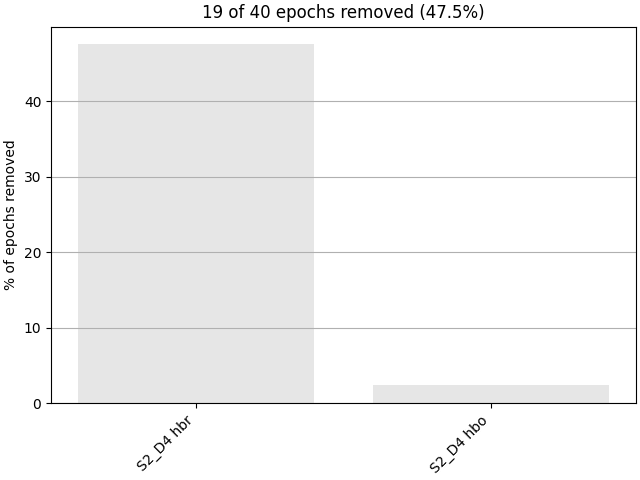
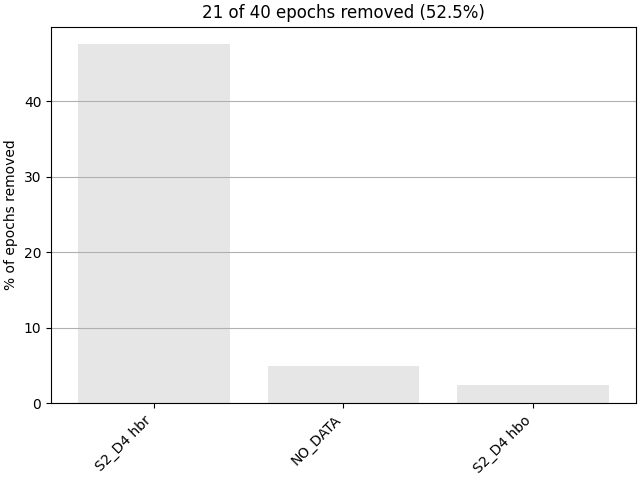
fixing trial start

diff --git a/fnirs_cognitive_load/main.py b/fnirs_cognitive_load/main.py
@@ -13,7 +13,7 @@ def main():
     snirf_data = SnirfDatabaseHelper(DATA_RAW / "Walking")
     plt.switch_backend('QtAgg') 
 
-    for snirf_file in snirf_data.get_snirf_files()[10:]:
+    for snirf_file in snirf_data.get_snirf_files()[13:]:
         subject_name = snirf_data.get_sub_name_from_path(snirf_file)
         
         raw_intensity = snirf_data.read_snirf_file(snirf_file)
@@ -53,9 +53,14 @@ def main():
         fig.savefig(FIG / f"event_timeline_{subject_name}.png")
 
 
-        reject_criteria = dict(hbo=20e-6, hbr=20e-6)
+        reject_criteria = dict(hbo=80e-6, hbr=80e-6)
         tmin, tmax = -10, 16
 
+        df = snirf_data.get_event_map(subject_name)
+        trial_start = df.at[3, 'trial.started']
+        # trial_end = df.at[21, 'trial.stopped']
+
+        raw_hemoglobin.crop(tmin=trial_start, tmax=None)
         epochs = mne.Epochs(
             raw_hemoglobin,
             events,
@@ -79,7 +84,7 @@ def main():
             combine="mean",
             vmin=-1,
             vmax=1,
-            ts_args=dict(ylim=dict(hbo=[-0.2, 0.2], hbr=[-0.2, 0.2])),
+            ts_args=dict(ylim=dict(hbo=[-1, 1], hbr=[-1, 1])),
         )
         
         

diff --git a/fnirs_cognitive_load/preprocessing/snirf_database_helper.py b/fnirs_cognitive_load/preprocessing/snirf_database_helper.py
@@ -46,3 +46,4 @@ class SnirfDatabaseHelper():
     def read_snirf_file(self, snirf_path):
         raw_intensity = mne.io.read_raw_snirf(snirf_path, preload=True, verbose=False)
         return raw_intensity
+    
